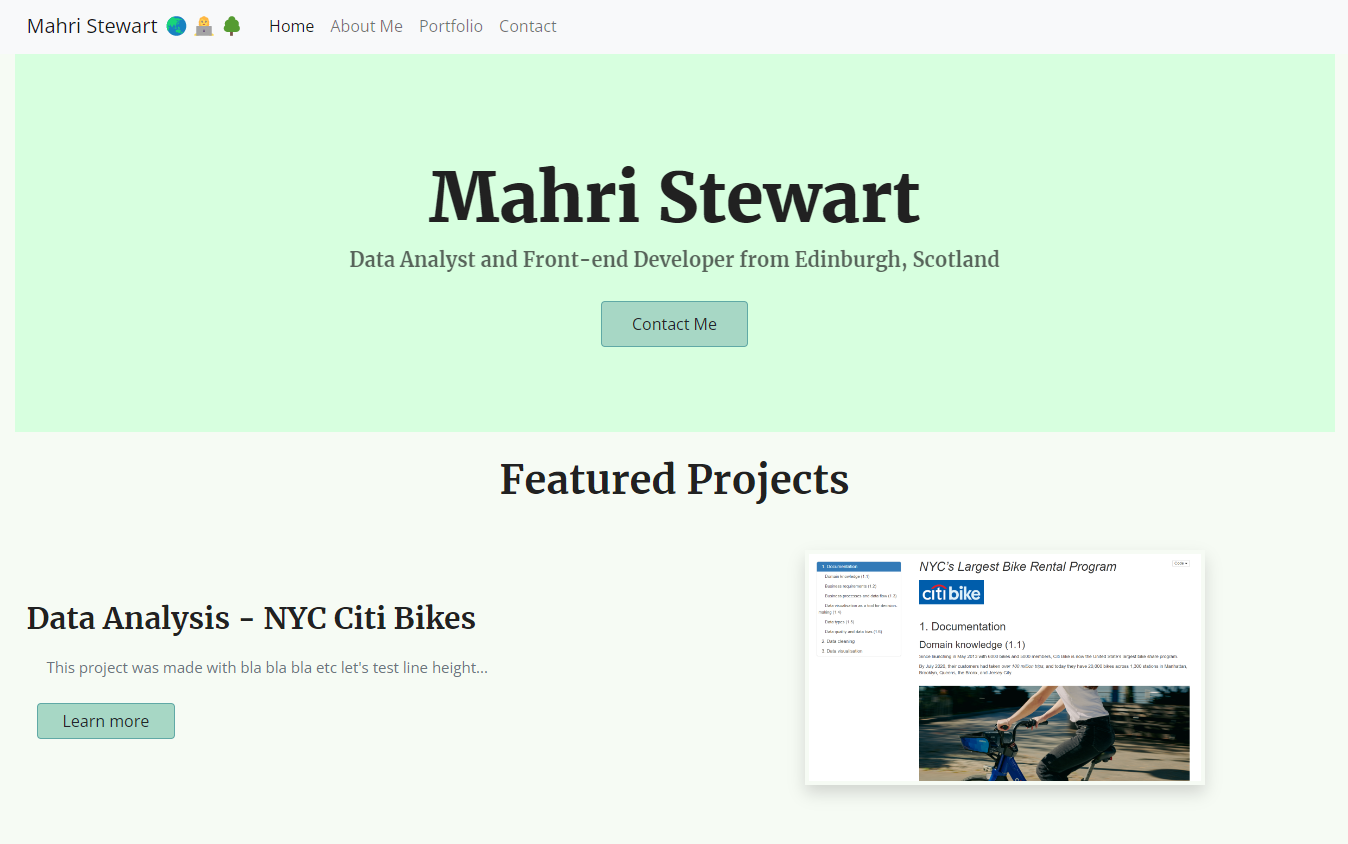
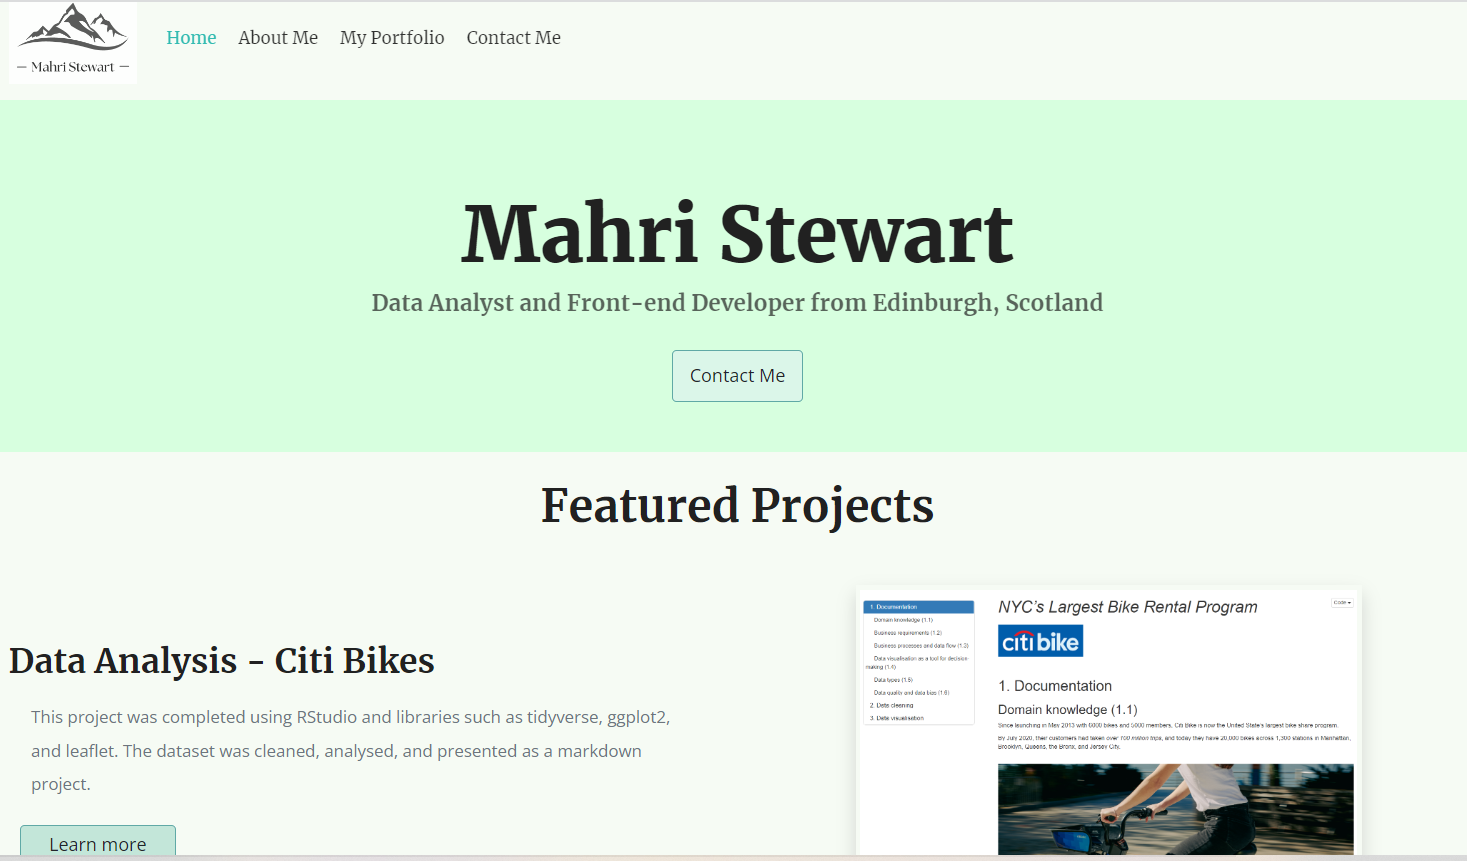
Adding links for Selkies project and changing some of the About Me info

diff --git a/about.html b/about.html
@@ -122,12 +122,13 @@
         discovered an interest for data analysis.
         <br />
         <br />
-        I have now completed an incredibly interesting (and fun!) 14 week
-        intensive course in data analysis with CodeClan in Edinburgh, Scotland.
-        Whilst there, I worked mostly in RStudio whilst learning to clean
-        datasets, analyse them in a number of ways, and present our findings on
-        dashboards and during presentations. I also gained experience of working
-        with SQL and Python and am excited for what the future may hold for me.
+        I now hold a Professional Development Award in Data Science (SCQF Level
+        8) having completed an incredibly interesting (and fun!) 14 week
+        intensive course with CodeClan in Edinburgh, Scotland. Working mostly in
+        RStudio, we learned to clean datasets, analyse them in a number of ways,
+        and present our findings on dashboards and during presentations. I also
+        gained experience of working with SQL and Python and am excited for what
+        the future may hold for me.
       </p>
     </div>
 
@@ -136,7 +137,7 @@
         <div class="col-md-4">
           <img
             src="/images/codeclan.jpg"
-            class="about-me-photos rounded"
+            class="about-me-photos border rounded"
             title="My CodeClan cohort on graduation day"
             alt="My CodeClan cohort on graduation day"
           />
@@ -147,23 +148,25 @@
         <div class="col-md-4">
           <img
             src="/images/graduation_photo_smaller.jpg"
-            class="about-me-photos rounded"
+            class="about-me-photos border rounded"
             title="Graduating from the University of Edinburgh"
             alt="Graduating from the University of Edinburgh"
           />
           <p class="image-captions">
-            Graduating from the University of Edinburgh with a MSc in Psychology
-            of Mental Health (2021)
+            Graduating from my master's degree at the University of Edinburgh
+            with a distinction in Psychology of Mental Health (2021)
           </p>
         </div>
         <div class="col-md-4">
           <img
             src="/images/canada.jpg"
-            class="about-me-photos rounded"
+            class="about-me-photos border rounded"
             title="Dreams coming true whilst exploring Canada"
             alt="Dreams coming true whilst exploring Canada"
           />
-          <p class="image-captions">Exploring in Canada (2019)</p>
+          <p class="image-captions">
+            Exploring whilst working in Canada (2019)
+          </p>
         </div>
       </div>
     </div>

diff --git a/my_portfolio.html b/my_portfolio.html
@@ -96,7 +96,7 @@
             </div>
         </div>
         <div class="col-md-6 mb-5">
-          <h4 class="mt-3 text-center">Selkie Project</h4>
+          <h4 class="text-center">Selkie Project</h4>
           <img
             src="/images/selkie_project.png"
             alt="Selkie Project Screenshot"
@@ -104,8 +104,8 @@
           />
             <p class="text-center portfolio-paragraphs mt-3 mb-3">Made with HTML, CSS, and JavaScript</p>
             <div class="mt-3 text-center">
-            <a href="#" title="Project link" class="btn btn-projects">See the full project</a>
-            <a href="https://github.com/MahriScot/SheCodes_Basics_Final_Project" target="_blank" title="GitHub link" class="btn btn-projects">GitHub link</a>
+            <a href="https://precious-gumdrop-01aae5.netlify.app/" target="_blank" title="Project link" class="btn btn-projects">See the full project</a>
+            <a href="https://github.com/MahriScot/Selkies_SheCodes_Basics_final_project_2021" target="_blank" title="GitHub link" class="btn btn-projects">GitHub link</a>
                         </div>
 
         </div>
@@ -129,7 +129,7 @@
       <div class="container mt-3">
       <h3 class="text-center mb-5 portfolio-section-titles" id="data-analysis">Data Analysis and Data Science</h3>
       <div class="row">
-        <div class="col-md-6 mb-2">
+        <div class="col-md-6 mb-5">
           <h4 class="text-center">Citi Bikes Project</h3>
           <img
             src="/images/bikes-project.png"

diff --git a/src/portfolio.css b/src/portfolio.css
@@ -146,7 +146,7 @@ p.image-captions {
   padding: 3px;
   border-radius: 4px;
   border: 1px solid var(--border-color);
-  background: var(--background-color);
+  background: #bdf2d5;
 }
 
 .btn-branding {
@@ -198,11 +198,12 @@ p.image-captions {
 .about-me-photos {
   display: block;
   margin: 10px auto;
+  padding: 2px;
   max-width: 300px;
 }
 
 .portfolio-section-titles {
-  background: #dbf6e9;
+  background: #c8f2ef;
   padding: 15px;
   margin: 30px;
 }
@@ -348,7 +349,11 @@ p.image-captions {
     text-align: center;
     margin: 5px auto 20px;
   }
-
+  .portfolio-section-titles {
+    padding: 5px;
+    margin: 0px 5px;
+    font-size: 20px;
+  }
   .footer {
     padding: 2px 0 0;
   }
